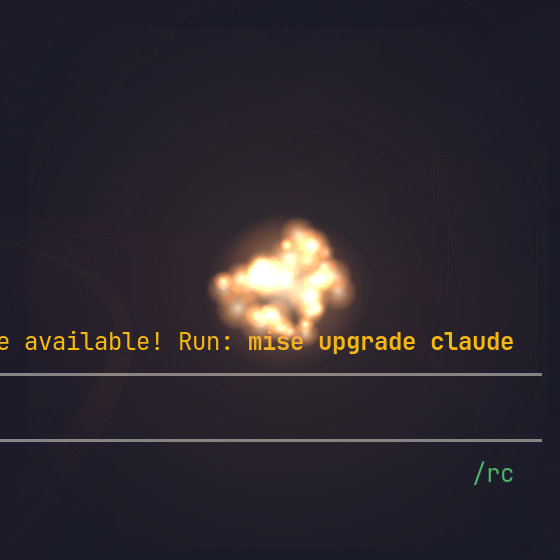
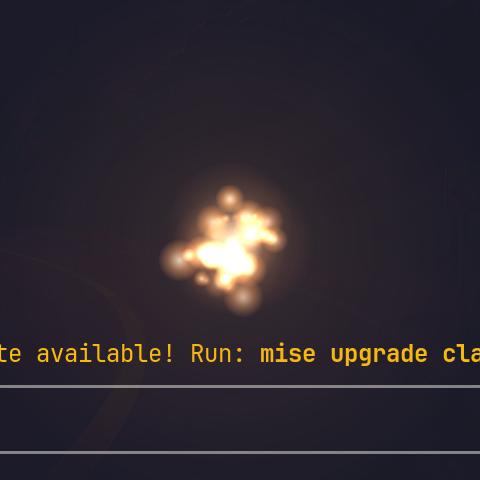
Fix visible window box: transparent Image render target + fit bloom inside window
The FramebufferObject canvas backing was opaque, and the outer bloom radius
overran half the window so it clipped to a rectangle. Render to an Image
target (truly transparent) and shrink the core (0.24 -> 0.16 of the window)
inside a larger 320px transparent window so the glow fades to nothing well
before the edge. No visible box now.

Claude-Session: https://claude.ai/code/session_018tdbqQ8ckPuDiYzfQHLBMn

diff --git a/EmberScene.qml b/EmberScene.qml
@@ -58,7 +58,7 @@ Item {
         id: cv
         anchors.fill: parent
         renderStrategy: Canvas.Cooperative
-        renderTarget: Canvas.FramebufferObject
+        renderTarget: Canvas.Image
 
         onPaint: {
             var ctx = cv.getContext("2d")
@@ -72,7 +72,7 @@ Item {
             for (var key in tgt) P[key] = scene.lerp(P[key], tgt[key], k)
 
             var cx = W / 2, cy = H / 2
-            var R = Math.max(40, Math.min(W, H) * 0.24)
+            var R = Math.max(40, Math.min(W, H) * 0.16)
 
             // breathing + flicker
             var breath = Math.sin(t * P.breath * 2 * Math.PI * 0.16) * P.breathAmp

diff --git a/Ember.qml b/Ember.qml
@@ -12,7 +12,7 @@ Item {
     id: root
 
     // ---- config (edit + save; the shell hot-reloads) ----
-    property int  boxSize:  260   // width & height of Ember's little window
+    property int  boxSize:  320   // width & height of Ember's little window
     property int  marginX:  26    // gap from screen edge
     property int  marginY:  26
     property bool everyScreen: true   // false = primary screen only
